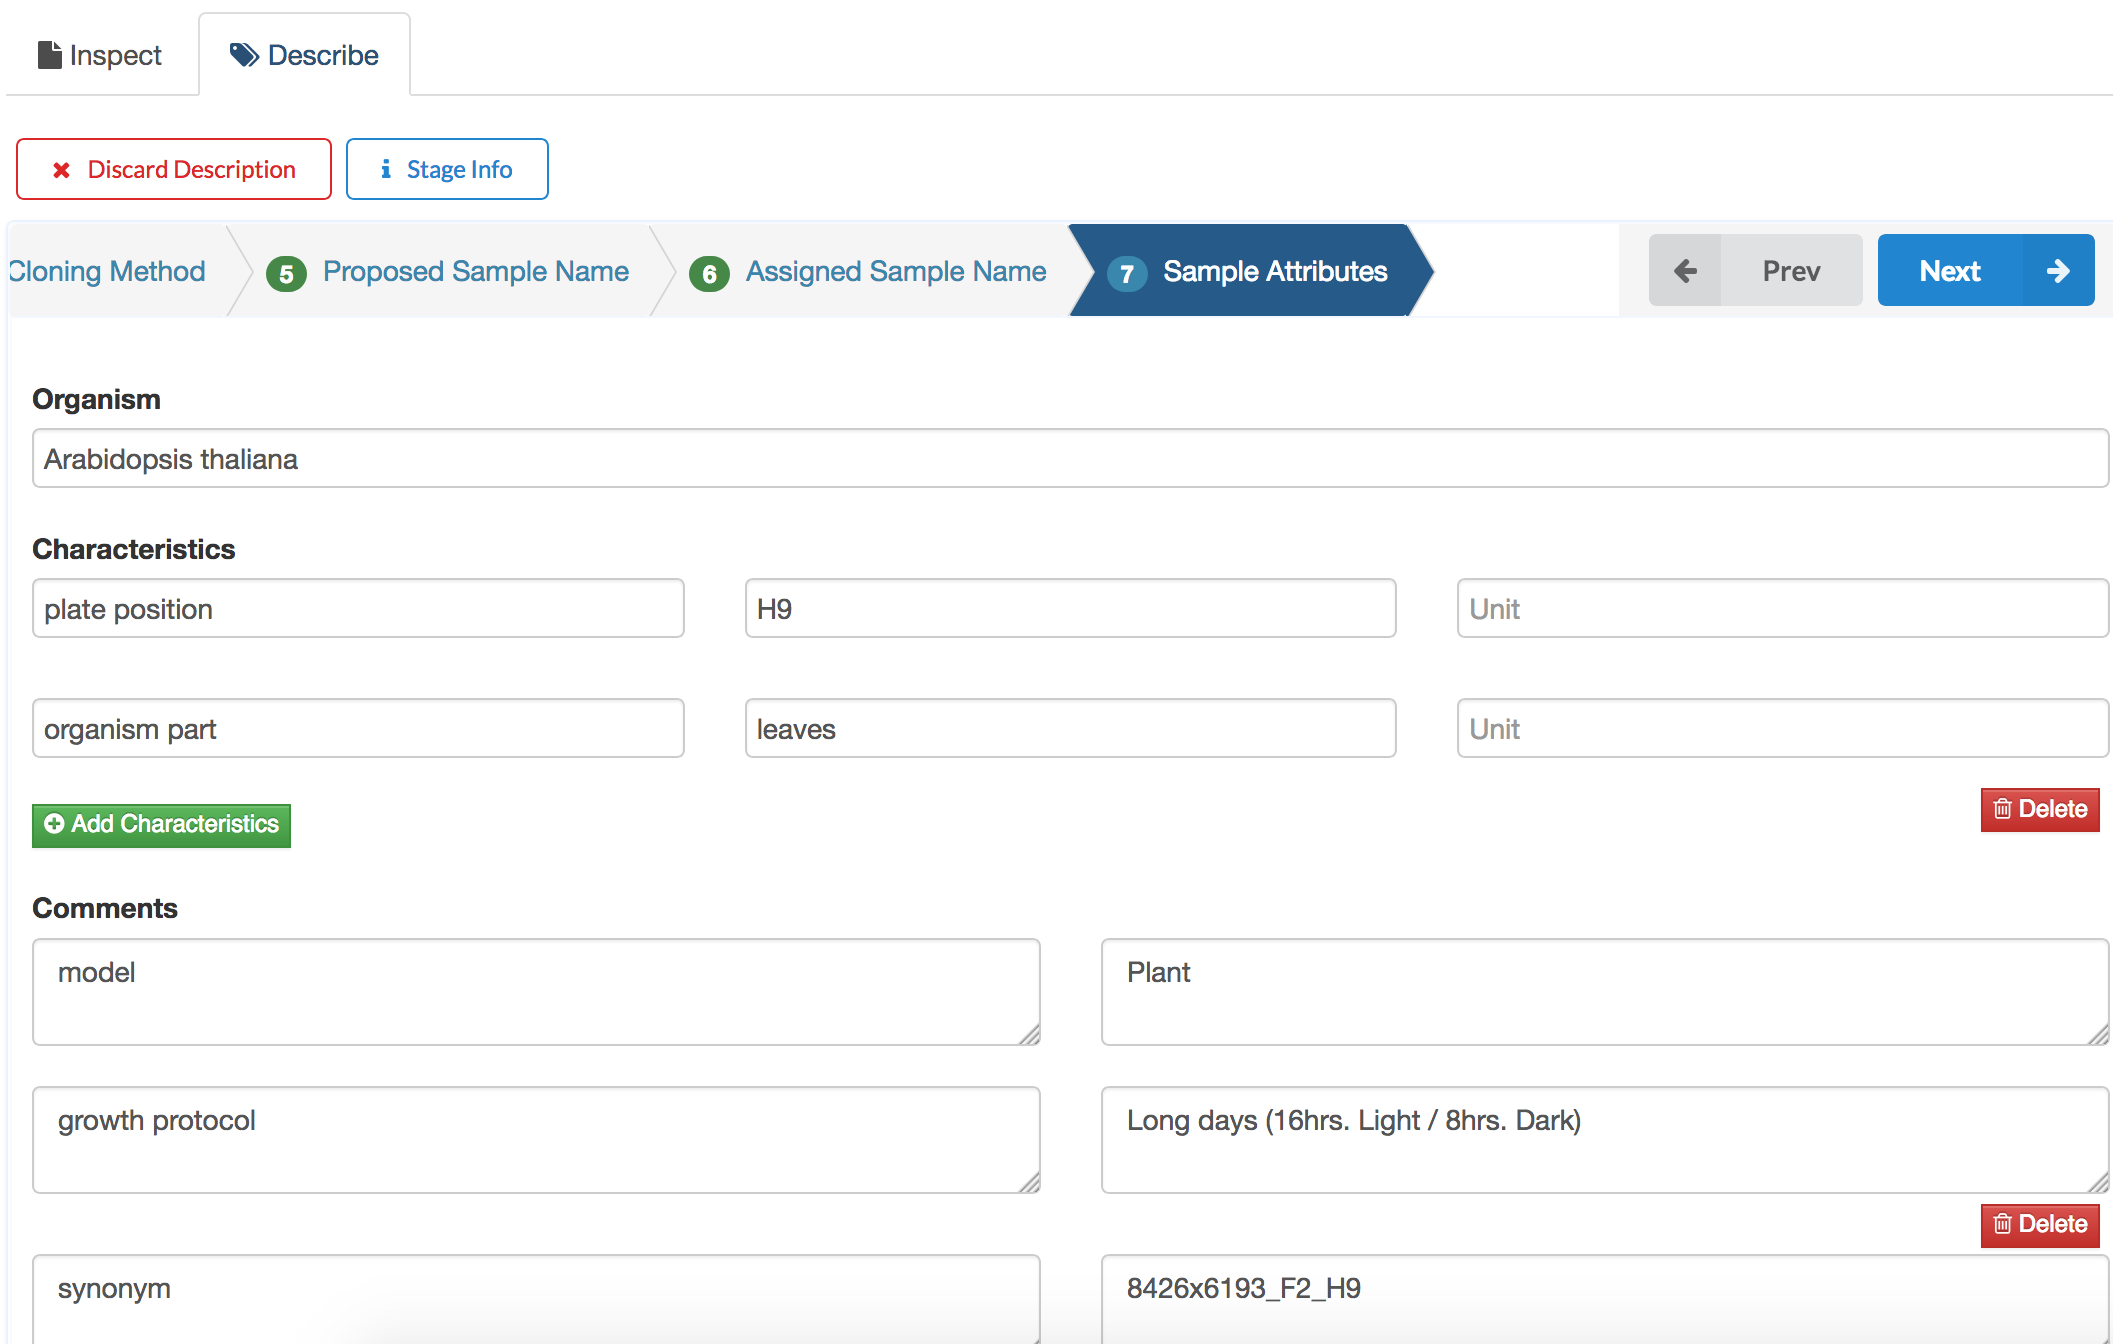
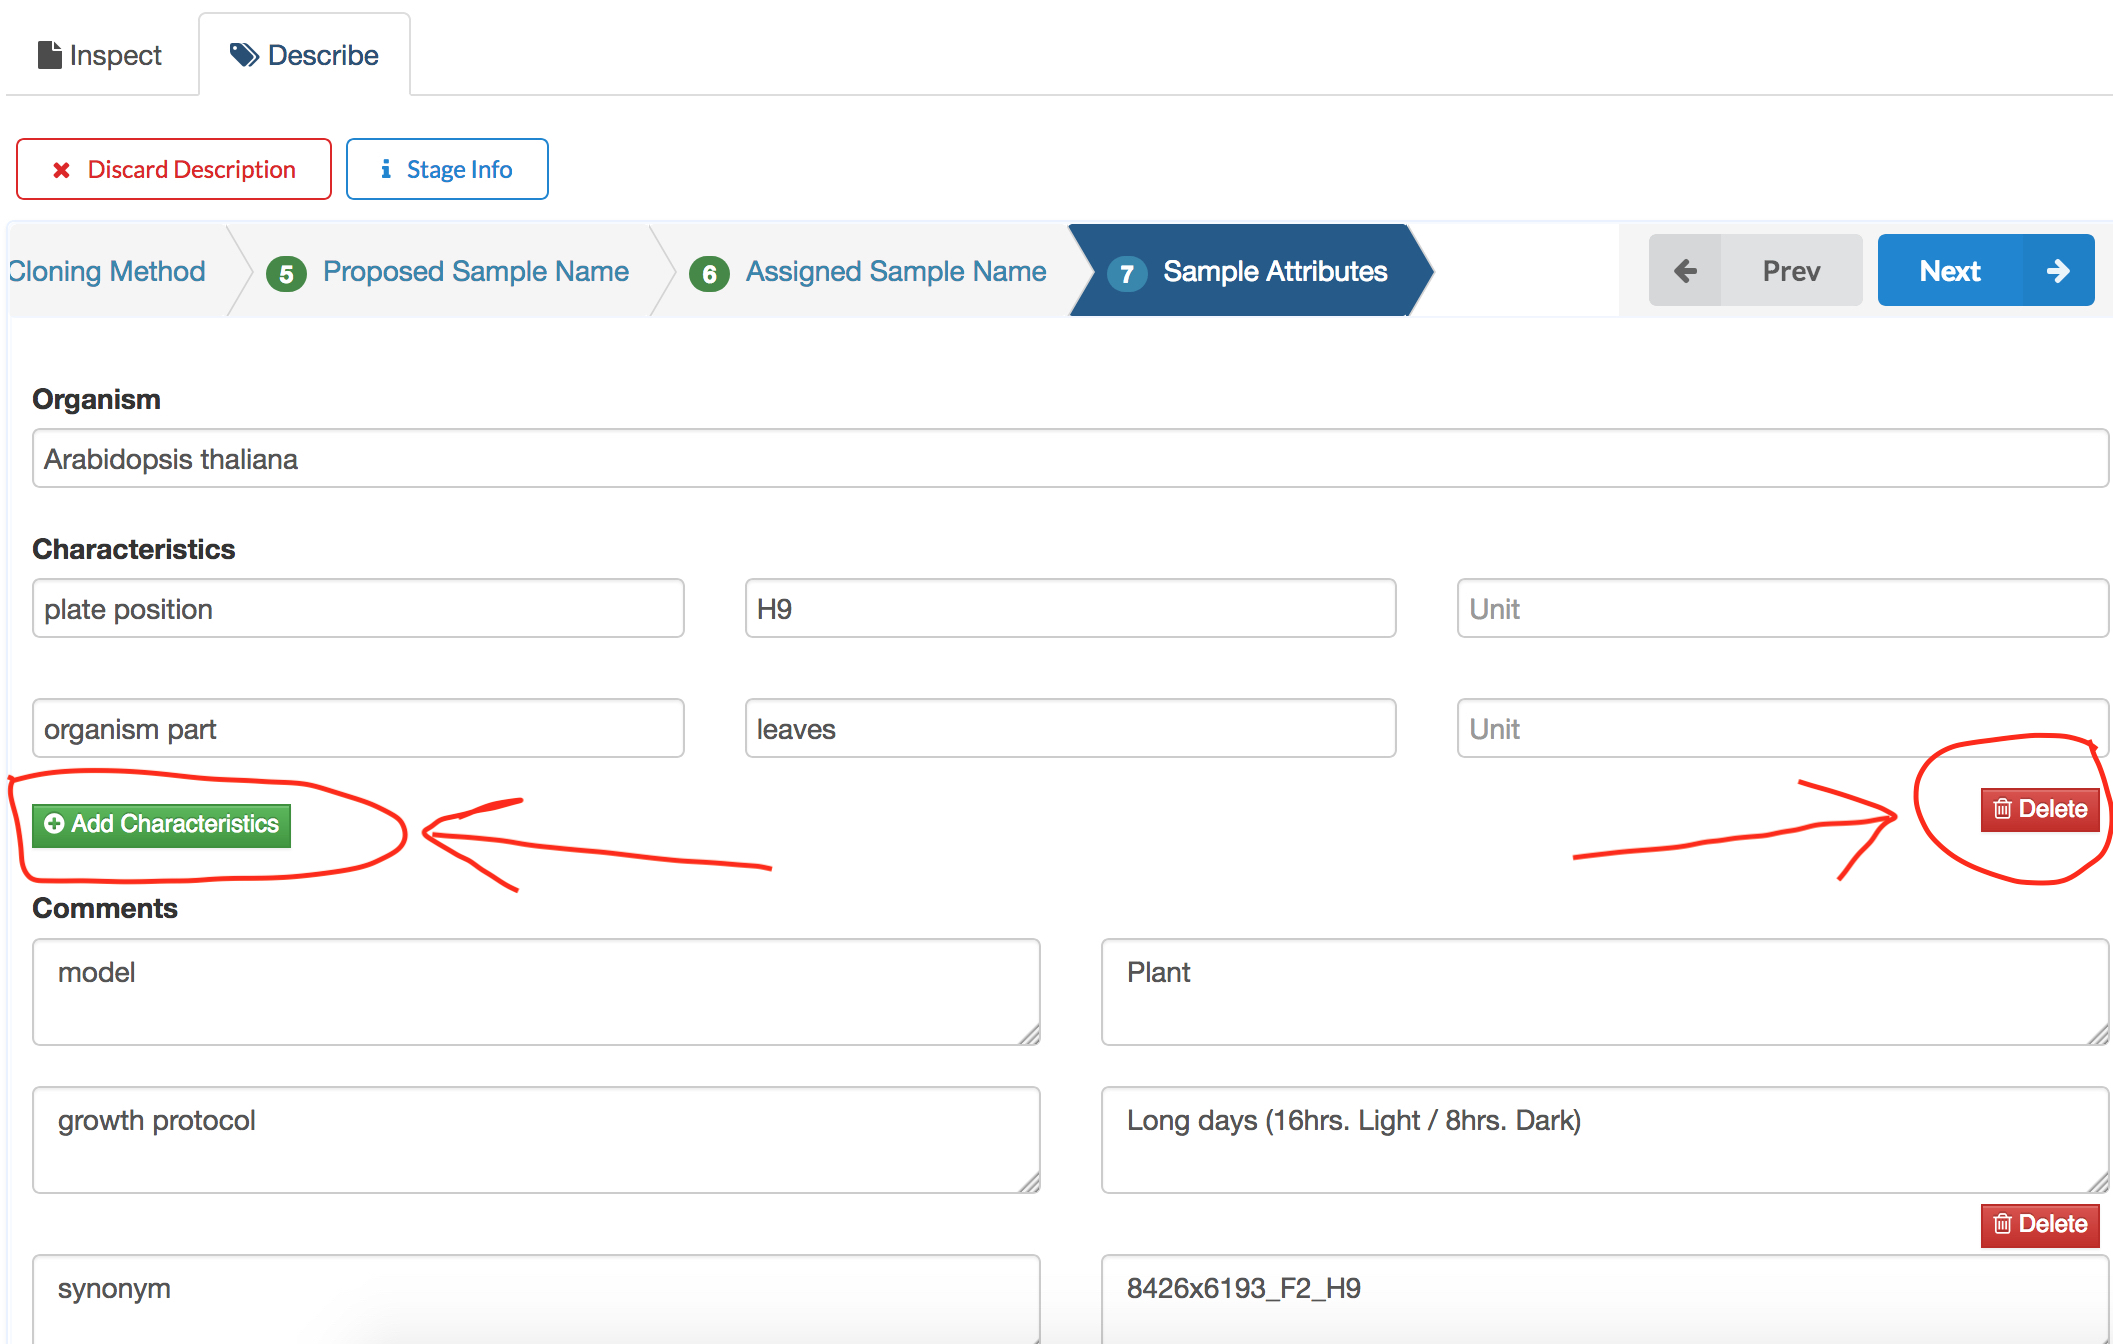
add sample review stage

diff --git a/sample.rst b/sample.rst
@@ -16,7 +16,6 @@ Initiate the sample wizard
 To initiate the sample wizard, click the **Describe samples** icon (see the highlighted blue icon in the screenshot above).
 
 .. hint:: 
-
    The sample description wizard is a sequence of steps that guides the user through the process of describing samples.
    
 Number of samples 
@@ -25,7 +24,6 @@ Number of samples
 Enter the number of samples to describe in the first stage of the wizard. 
 
 .. hint:: 
-
    Multiple sample having a common set of attributes can be described in a batch.
 
 .. image:: images/sample-no-of-samples.jpg
@@ -64,7 +62,6 @@ The default sample type is **COPO Standard**. In the screenshot below, **Sample 
 .. image:: images/sample-type-biosample.jpg
 
 .. hint:: 
-
    The **Biosample Standard** sample type is useful for describing repository agnostic samples. **COPO Standard** is the recommended type to use for submissions to the `European Nucleotide Archive <https://www.ebi.ac.uk/ena>`_.
 
 
@@ -75,13 +72,11 @@ The cloning method stage is presented if sample clone was selected in a previous
 .. image:: images/sample-clone-2.png
 
 .. note:: 
-
    The **Existing Sample** option is only active if there are available samples in the current profile. Samples from other profiles are not available to be cloned in this view. **Resolve Accession** is the default option when there are no existing samples in a profile.
    
-Results from both options will be highlighted in this guide where relevant. Also, for demonstration purposes, the accession - **SAMN05282547** (valid at the time of writing) is selected to be resolved.   
+Results from both options will be provided in this guide where relevant. Also, for demonstration purposes, the accession - :code:`SAMN05282547` (valid at the time of writing) is selected to be resolved.
 
 .. note:: 
-
    COPO currently supports resolving sample accessions to the `BioSamples <https://www.ebi.ac.uk/biosamples/>`_  database. 
    
 
@@ -90,13 +85,12 @@ Enter an accession and press the **Resolve!** button, located to the right of th
   
 .. image:: images/sample-resolve.jpg
 
-The screenshot above shows the result of resolving the accession, **SAMN05282547**, the metadata of which is displayed on the pop-up box to the right. Also, the highlighted (in red circle) icon next to the **Accession** label, when hovered over also reveals the resolved sample metadata. 
+The screenshot above shows the result of resolving the accession, :code:`SAMN05282547`, the metadata of which is displayed to the right. Also, the highlighted (in red circle) icon next to the **Accession** label, when hovered over also reveals the resolved sample metadata. 
 
 The resolved attributes from this sample will form the basis of the current description. This will be demonstrated at a later stage.
 
 
 .. warning:: 
-
    If an accession can't be resolved, an error will be displayed to inform the user. In that case, the user can either select a sample locally to clone (if there are any in the profile) or simply move on to the next stage.
 
    
@@ -109,12 +103,15 @@ The proposed sample name stage provides the user the opportunity to name the pro
 
 .. image:: images/sample-naming.jpg
 
+.. hint:: 
+   Clicking an input control presents a help tip relevant to the selected control. 
+   
+
 The **Predefined Names** option is relevant in cases where the user has existing sample names. The sample names can come from a column in a spreadsheet,  or from a comma/tab separated list of names. To use this option, copy the sample names and paste in the **Predefined Names** input box and click the **Next** button to proceed. The screenshot above points to an example with comma separated list of sample names.
 
 The  **Bundle Name** option will come in handy for users with no predefined sample names. If selected, the user will be required to enter a **bundle name**.
 
 .. note::
-
    A **bundle name** is a prefix from which similar sample names may be derived. For example, if a user enters *sample-* as a bundle name, COPO would use this entry to generate sample names of the form: *sample-1, sample-2, sample-3*, etc.
 
 
@@ -127,30 +124,99 @@ In this stage, the sample names for the prospective samples are generated. Sampl
 
 
 .. warning::
-
    The validation for unique sample names can lead to errors and the rejection of a proposed name. To work around this, supply a new name in the affected field before proceeding to a next stage.
    
 Sample attributes
 ---------------------
-So far, we have specified the number of samples to describe; gone on to select the description template (or sample type) on which to base the sample description; and even selected to clone a sample, the metadata of which could be used to bootstrap the  description. In the current stage - the sample attributes stage - the user can define common attributes that will apply to all the samples to be generated. 
+So far, we have specified the number of samples to describe; gone on to select the description template (or sample type) on which to base the sample description; and even selected to clone a sample, the metadata of which could be used to bootstrap the  description. In the current stage - the sample attributes stage - the user can define common attributes that will apply to all the samples. 
+
+
+.. note::
+   The sample attributes stage acts as a template, that enables the user define common features that will be shared by all  samples in a description.  All entries made here will be assigned to all the prospective samples in the current description.
+ 
 
 .. image:: images/sample-attribute-biosample.jpg
 
-The screenshot shows the result of cloning a sample from a remote repository, and selecting to use the **Biosample** sample type. The fields have been pre-populated with the resolved metadata. There are some components on the stage form worth going through in more detail.
+The screenshot shows the result of cloning a sample from a remote repository, and selecting to use the **Biosample** sample type. The fields have been pre-populated with the resolved metadata from the clone target. The following components are available on the form.
 
 Organism
-   This input field is meant for specifying the source of the sample(s) e.g., specie, genus, strain. **This is an ontology field**.  
-
-.. hint::
-
-   An ontology field in COPO enables the input of semantically enriched data items, which are explicit formal specifications of terms and their relationship to other terms in a domain.
+   The Organism input control is used to capture the taxonomic information associated to the source biological material e.g., specie, genus, strain. This is an :term:`ontology field<Ontology field>`.  
 
 .. note::
-	When manually entering a value in an ontology field, an auto-complete list of matched entries is presented. The list of matched entries is potentially refined (and narrowed down) with additional keystrokes. Also, the same matched value may be presented multiple times, but from different ontology sources. Where an ontology reference of choice is not listed, the user can enter a free-text, which is semantically *unmapped*. 
+	When manually entering value in an ontology field, an auto-complete list of matched entries will be presented to select from. In some cases, the same matched term appear can be displayed multiple times, but from different ontology sources. 
  
 
 Characteristics
-   ...
+	The Characteristics input control is used to enter information about the characteristics of the samples e.g., length, colour. 
+	
+	Any number of characteristics can be entered by clicking the **Add Characteristics** button (highlighted in the screenshot). To delete a characteristic, click the **Delete**  (highlighted in the screenshot) button next to an entry. 
+
+.. note::
+   A characteristic input control is a *composite control* made up of 3 input fields: **Category**, **Value**, and **Unit**. Each of these fields is an ontology field. Numeric values are not necessarily mapped to an ontology, and can be entered as free text.
+
+An example characteristic entry would look like: Category (Height), Value (50), Unit (Centimeter). When referring to a sample, the example characteristic can be read as the sample having a **height** of **50** **centimetres**. 
+
+
+Comments
+	The Comments control is a key/value or **Title**/**Value** input field pair, which can be used to further add context to described samples. The Comments control, unlike the Characteristics, is free text and therefore can't be used to link ontologies. 
+	
+	Any number of comments can be entered by clicking the **Add Comments** button (similar to Characteristics). To delete a comment, click the **Delete** button next to an entry.
+
+
+Sample generation
+---------------------
+The prospective samples are set to be generated when the user clicks the **Next** button in the **Sample attributes** stage. As mentioned, the features entered in the Sample attributes stage of the wizard will be used as defaults for all the samples in the bundle. 
+
+.. image:: images/sample-generation.jpg
+
+The user will be required to confirm the action to be taken.
+
+Review 
+	Selecting this option keeps the user in the current (Sample attributes) stage. The user can then go on and make any modifications to the common attributes of the samples.
+	
+Continue
+	Selecting this option will cause the wizard to go ahead with the actual generation of the samples. The defined attributes are copied across to all the samples generated, and the wizard transitions to the next stage.
+
+.. warning::
+   Once the samples have been generated, stepping back to the **Sample attributes** stage to update an entry would no longer have an effect on the *common* features assigned to the samples. 
+   
+   
+Review stage
+-------------
+The review stage is the final stage of the wizard. In this stage, the user is able to modify specific attribute values for the generated samples. Samples information is presented in a tabular format. To modify an attribute value, highlight the required cell and press the **Enter** key on your keyboard. When done modifying the value in a cell, press the **Enter** key again to save your changes. Click the **Finish!** button to end the description session.
+
+.. image:: images/sample-review.jpg
+
+In the screenshot above, features defined in the **Sample attributes** stage form the column headers of the review table. The sample name takes the second column. 
+
+Each sample in the bundle starts off with the same value, and the user can modify each cell (or attribute for a sample) as required. The **Category** of a characteristic is kept fixed as a column header, and the user can only modify the **Value** and **Unit** (where applicable) for individual or group of samples. Also, the **Title** of a comment is kept fixed as a column header. The user can only modify the **Value** of a comment.
+
+
+The review stage provides the following functionality.
+
+Multi-sample editing
+	A feature value can be modified for a single or multiple samples at once: 
+	
+	* Highlight the target cell (by clicking on it)
+	* Press the **Enter** key to activate cell edit 
+	* Modify the feature value (make sure not to press **Enter** after this)
+	* Click to select the rows to apply the update
+	* Click **Apply to selected** to apply to selected rows; **Apply to all** to apply to all the samples; **Apply to current** to apply only to the sample for which the edit form is triggered
+	
+	.. image:: images/sample-multi-edit.jpg
+	
+Sequential editing
+	The wizard automatically highlights the next sample (one position down), after the Enter key is pressed to commit an edit. In this way, the user can conveniently enter feature values sequentially for all the samples.
+	
+Arrow keys
+	Arrows keys (top, left, down, and right), as well as TAB, can be used to navigate the sample review table. 
+   
+
+
+
+
+
+
 
 
 

diff --git a/glossary.rst b/glossary.rst
@@ -1,0 +1,9 @@
+####################
+Glossary
+####################
+
+.. glossary::
+
+  Ontology field
+
+    An ontology field in COPO is an auto-complete control, that matches user input to semantically-enriched values. These values, in turn, are explicit formal specifications of terms and their relationship to other terms in a domain.

diff --git a/index.rst b/index.rst
@@ -15,6 +15,7 @@ Collaborative Open Plant Omics
    copo-user-guide-index
    copo-deployment
    copo-development
+   glossary
 
 
 .. Indices and tables
